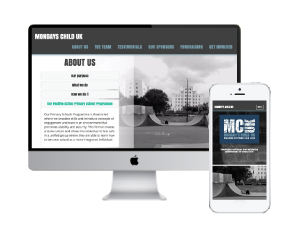
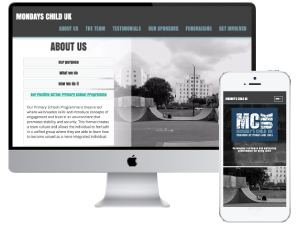
Well formatted home page

diff --git a/index.html b/index.html
@@ -140,13 +140,39 @@
                 </div>
                 <div class="col-sm-10 col-sm-offset-1">
                     <div class="col-xs-12 col-sm-4 work-box">
-                       <img src="img/sfaca/sf-display.jpg" alt="">
+                        <div class="caption">
+                            <div class="caption-content">
+                                <!-- <i class="fa fa-search-plus fa-3x"></i> -->
+                                <h2 class="work-name">Shehzad Farrukh Accountants</h2>
+                                <p class="work-type">Web design and build</p>
+                                <p class="read-more">Read more</p>
+                            </div>
+                        </div>
+                       <img class="work-display" src="img/sfaca/sf-display.jpg" alt="">
                     </div>
                     <div class="col-xs-12 col-sm-4 work-box">
-                       <img src="img/essential_blends/eb-display.jpg" alt="">
+                        <div class="caption">
+                            <div class="caption-content">
+                               <!--  <i class="fa fa-search-plus fa-3x"></i> -->
+                               <h2 class="work-name">Essential Blends</h2>
+                                <p class="work-type">Web design and build</p>
+                                <p class="read-more">Read more</p>
+                            </div>
+                        </div>
+                       <img class="work-display" src="img/essential_blends/eb-display.jpg" alt="">
                     </div>
                     <div class="col-xs-12 col-sm-4 work-box">
-                       <img src="img/mondays_child/mc-display.jpg" alt="">
+                        <div class="caption">
+                            <div class="caption-content">
+                                 <div class="caption-content">
+                               <!--  <i class="fa fa-search-plus fa-3x"></i> -->
+                               <h2 class="work-name">Mondays Child UK</h2>
+                                <p class="work-type">Web design and build</p>
+                                <p class="read-more">Read more</p>
+                            </div>
+                            </div>
+                        </div>
+                       <img class="work-display" src="img/mondays_child/mc-display.jpg" alt="">
                     </div>
                 </div>
             </div>
@@ -167,20 +193,31 @@
         <!-- SLIDING HORITONTAL CAROUSEL? Or layout a few here... initially? -->
         <div class="container">
             <div class="row">
-                <div class="col-xs-12">
+                <div class="col-xs-12 text-center">
                     <h2>Testimonials</h2>
                 </div>
                 <div class="col-sm-10 col-sm-offset-1">
+                    
                     <div class="col-xs-12 col-sm-4 testimonial-box">
-                       <p class="testimonial">Beth did our company logo to perfection, she was very efficient. l strongly recommend.</p>
-                        <p class="attrib">Washington, Door 2 Door Coaches</P>
+                        <i class="fa fa-2x fa-quote-left speech"></i>
+                        <p class="testimonial">We are delighted with our new logo. We were very impressed with how Beth took on board our ideas and created a polished, professional result.<br>Well worth the money.</p>
+                        <i class="fa fa-2x fa-quote-right speech right"></i>
+                        <hr class="quote-divide">
+                        <p class="attrib">Bernard West<br>Harmony Vineyard</P>
                     </div>
                     <div class="col-xs-12 col-sm-4 testimonial-box">
-                        <p class="testimonial">We are delighted with the logo which Beth designed for our new vineyard. We were very impressed how she took on board our ideas and created a polished, professional result. Well worth the money.</p>
-                        <p class="attrib">Bernard West, Harmony Vineyard</P>
+                        <i class="fa fa-2x fa-quote-left speech"></i>
+                        <p class="testimonial">Beth did our company logo to perfection, she was very efficient.<br>I strongly recommend.</p>
+                        <i class="fa fa-2x fa-quote-right speech right"></i>
+                        <hr class="quote-divide">
+                        <p class="attrib">Washington<br>Door 2 Door Coaches</P>
                     </div>
                     <div class="col-xs-12 col-sm-4 testimonial-box">
-                       
+                        <i class="fa fa-2x fa-quote-left speech"></i>
+                        <p class="testimonial">Lorem ipsum dolor sit amet, consectetur adipiscing elit. Etiam in fringilla tellus. Praesent et ante vitae ipsum feugiat dictum non sit amet felis. Integer nec lacus nec enim dignissim consectetur.</p>
+                        <i class="fa fa-2x fa-quote-right speech right"></i>
+                        <hr class="quote-divide">
+                        <p class="attrib">Sophie Joseph<br>Essential Blends</p>
                     </div>
                 </div>
             </div>

diff --git a/css/scrolling-nav.css b/css/scrolling-nav.css
@@ -22,6 +22,10 @@ h1, h2, h3, h4, h5, h6, p {
     color: #643513;
 }
 
+/*.white {
+    color: #fff;
+}*/
+
 a {
     color: #bfd030;
 }
@@ -129,6 +133,7 @@ div.circle {
 
 .sr-icons {
     padding-top: 20px;
+    color: #f26621;
 }
 /*.service-box {
     max-width: 400px;
@@ -151,23 +156,96 @@ section.featured-work {
 .work-box {
     background: #fff;
     border: 10px solid #f9f6f3;
-    height: 236px;
-    padding: 0 10px;
-
+    height: 300px;
+    padding: 0;
 }
+
+img.work-display {
+    width: 280px;
+    margin: 40px 10px 0 10px;
+}
+
+.caption {
+    background: rgba(242, 102, 33, 0.8);
+    position: absolute;
+    width: 100%;
+    height: 100%;
+    opacity: 0;
+    transition: all ease 0.5s;
+    -webkit-transition: all ease 0.5s;
+    -moz-transition: all ease 0.5s;
+}
+
+.caption:hover {
+     opacity: 1;
+}
+
+.caption .caption-content {
+    position: absolute;
+    width: 100%;
+    /*height: 20px;*/
+   /* font-size: 16px;*/
+    text-align: center;
+    top: 25%;
+  /*  margin-top: -12px;*/
+   /* color: white;*/
+}
+
+.work-name {
+    color: #fff;
+    font-size: 20px;
+    letter-spacing: 2px;
+    line-height: 25px;
+}
+
+.work-type,
+.read-more {
+    color: #fff;
+    font-size: 14px;
+    letter-spacing: 1.2px;
+    line-height: 25px;
+}
+
+.work-name,
+.read-more {
+    text-transform: uppercase;
+}
+
+/* TESTIMONIALS */
 
 section.testimonials {
    /* height: 100%;*/
     padding: 20px 0;
-    text-align: center;
+   /* text-align: center;*/
     background: #fff;
 }
 
 .testimonial-box {
     background: #f9f6f3;
     border: 10px solid #fff;
-    height: 200px;
-    padding: 0 30px;
+    height: 340px;
+    padding: 30px 30px;
+}
+
+.testimonial,
+.attrib {
+    text-align: center;
+    margin: 5px 25px;
+}
+
+.speech {
+    color: #bfd030;
+}
+
+i.right {
+    float: right;
+}
+
+hr.quote-divide {
+    width: 150px;
+    border: 0;
+    border-bottom: 1px dashed #bfd030;
+    background: #fff;
 }
 
 footer {
